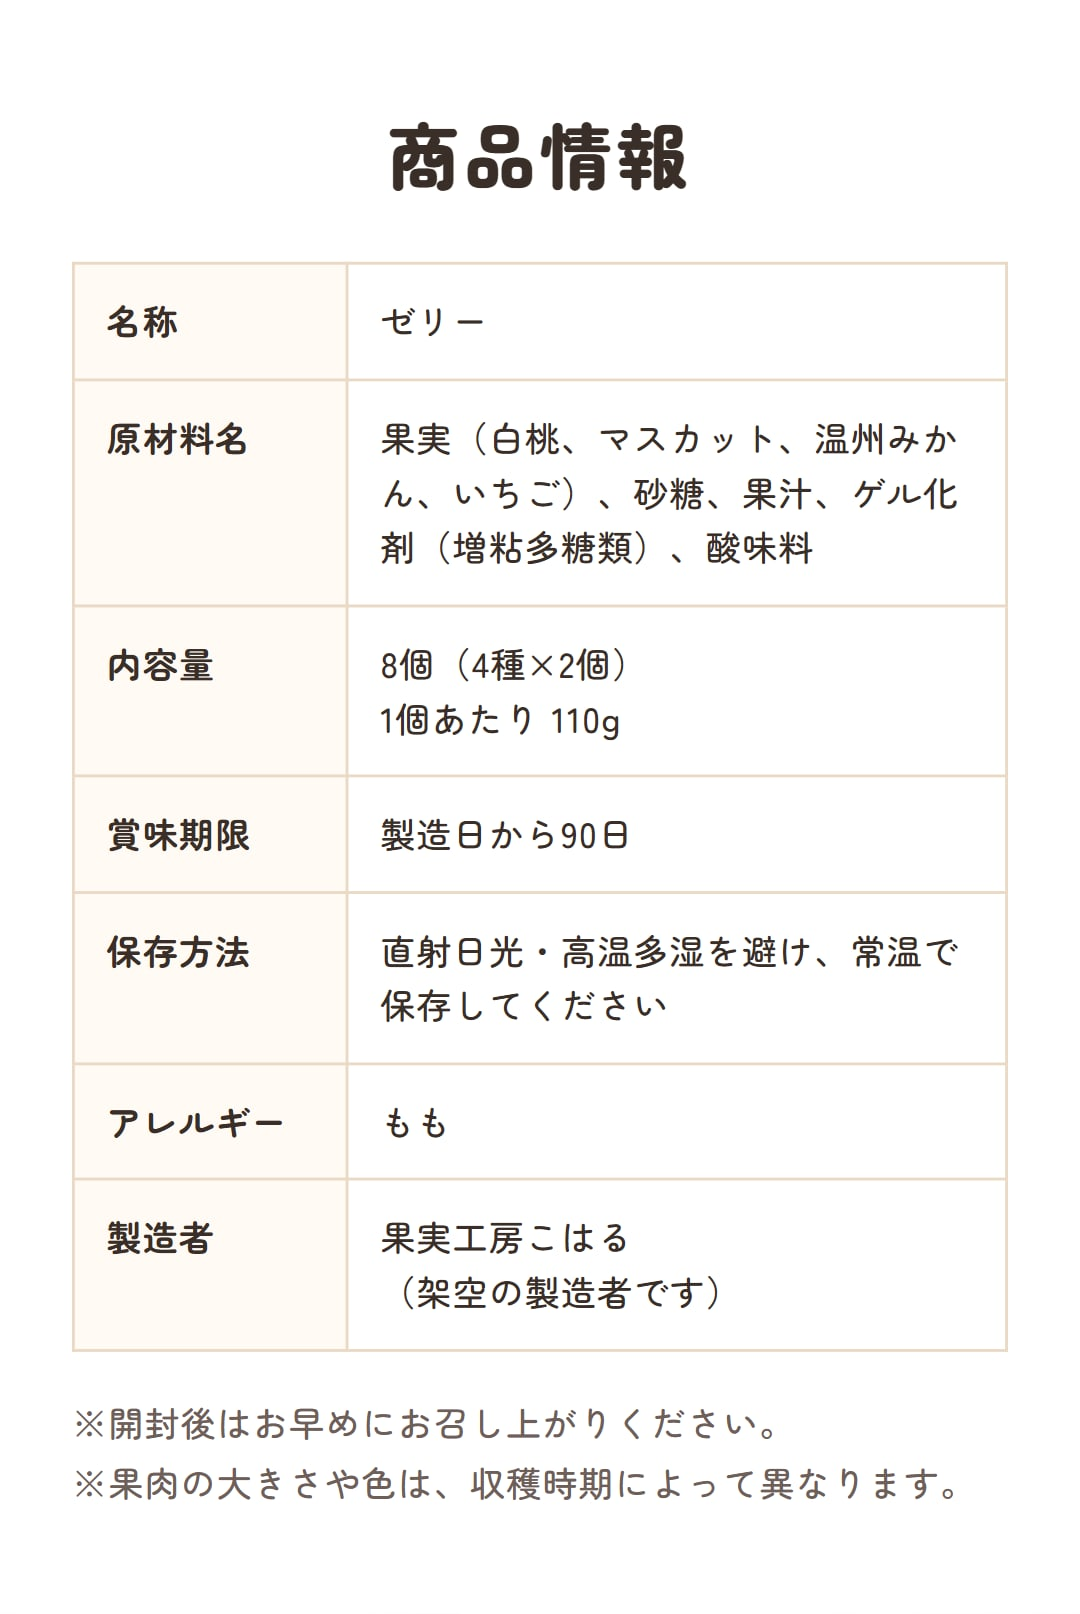
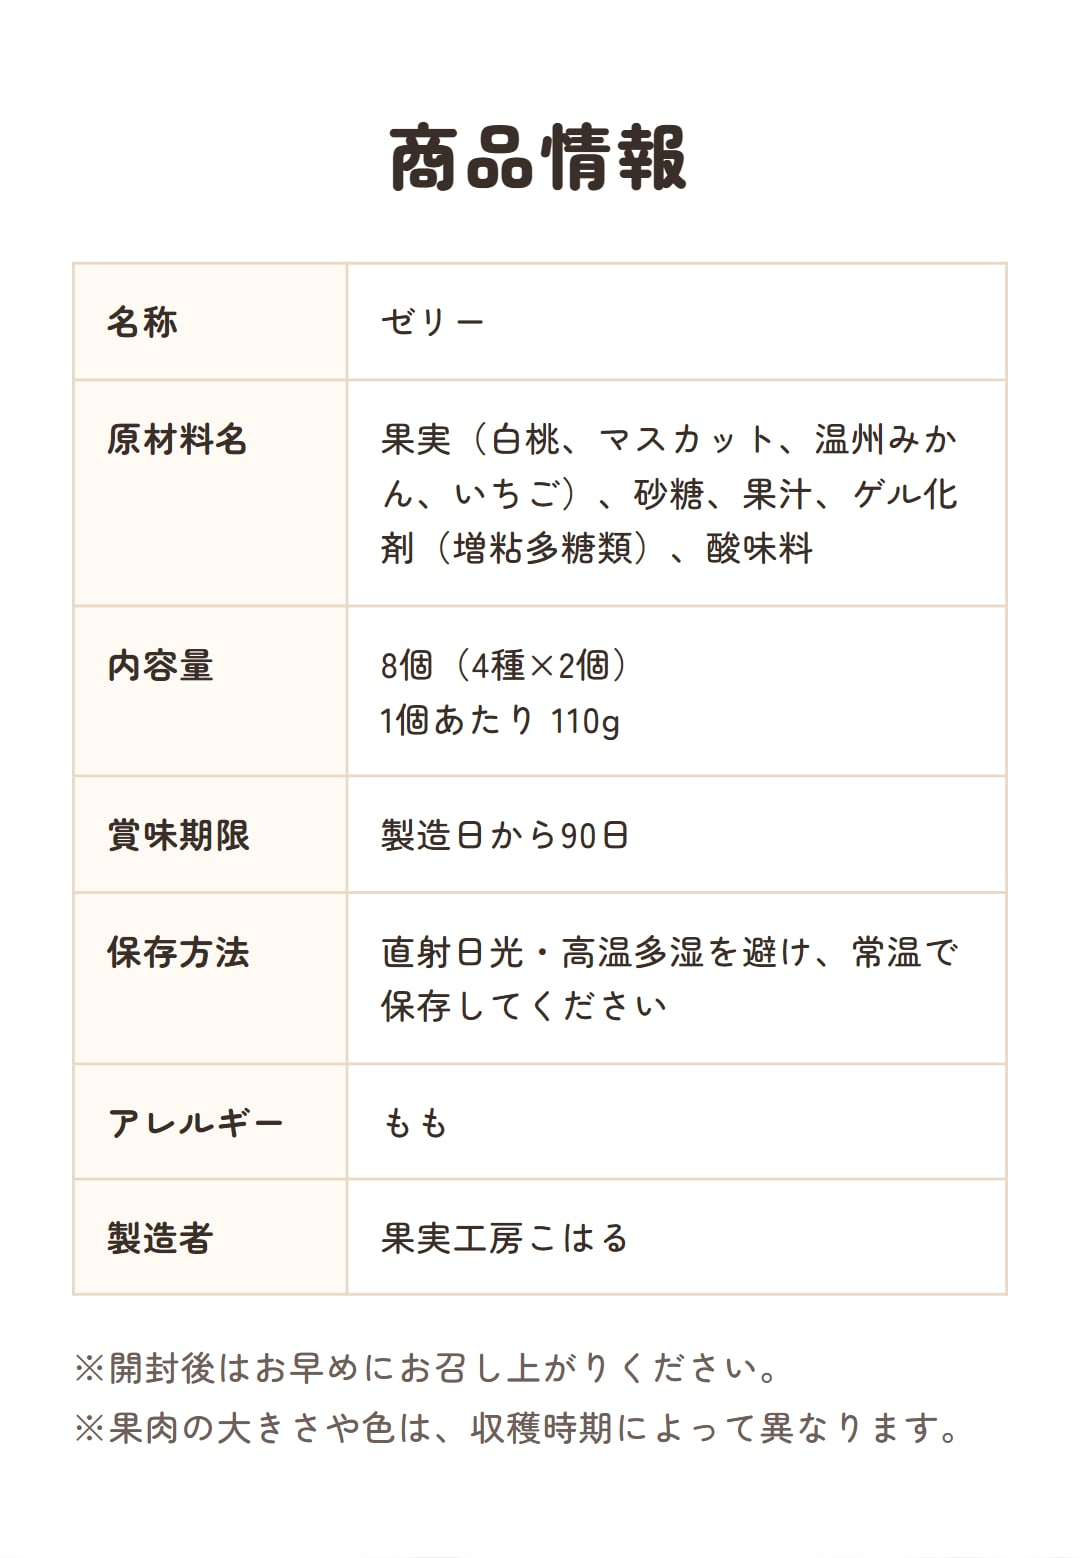
こはる：断り書きをフッターの1か所（自主制作）にまとめ、画像・テキストの「架空」の注記を外した

diff --git a/koharu/index.html b/koharu/index.html
@@ -3,12 +3,12 @@
 <head>
   <meta charset="UTF-8">
   <meta name="viewport" content="width=device-width, initial-scale=1">
-  <title>楽天市場 商品ページ制作サンプル｜国産フルーツジュレ（架空の商品）</title>
-  <meta name="description" content="楽天市場向けの商品ページ制作サンプル。スマホ用の縦長LP画像11枚、商品画像3枚、楽天にそのまま貼れるHTMLまで制作しました（架空の商品）。">
+  <title>楽天市場の商品ページ｜国産フルーツジュレ</title>
+  <meta name="description" content="楽天市場の商品ページ。スマホ用の縦長LP画像11枚、商品画像3枚、楽天にそのまま貼れるHTMLまで制作しました。">
   <meta name="robots" content="noindex">
   <meta property="og:type" content="website">
-  <meta property="og:title" content="楽天市場 商品ページ制作サンプル｜国産フルーツジュレ">
-  <meta property="og:description" content="スマホ用LP画像11枚・商品画像3枚・楽天用HTML（架空の商品のサンプル）">
+  <meta property="og:title" content="楽天市場の商品ページ｜国産フルーツジュレ">
+  <meta property="og:description" content="スマホ用LP画像11枚・商品画像3枚・楽天用HTML">
   <meta property="og:url" content="https://shimaponworks.github.io/koharu/">
   <meta property="og:image" content="https://shimaponworks.github.io/koharu/output/thumb-01.jpg">
   <meta name="twitter:card" content="summary_large_image">
@@ -18,15 +18,14 @@
 <body>
   <header class="hero">
     <div class="container">
-      <p class="hero__label">楽天市場 商品ページ 制作サンプル</p>
+      <p class="hero__label">楽天市場の商品ページ</p>
       <h1 class="hero__title">果実ごろっと<br>国産フルーツジュレ</h1>
-      <p class="hero__lead">お歳暮・クリスマス向けの食品ギフトを想定した、楽天市場の商品ページです。<br>スマホ用の縦長LP画像から、商品画像、楽天にそのまま貼れるHTMLまで制作しました。</p>
+      <p class="hero__lead">お歳暮・クリスマス向けの食品ギフトの、楽天市場の商品ページです。<br>スマホ用の縦長LP画像から、商品画像、楽天にそのまま貼れるHTMLまで制作しました。</p>
       <ul class="hero__chips">
         <li>スマホ用LP画像 <strong>11枚</strong></li>
         <li>商品画像 <strong>3枚</strong></li>
         <li>楽天用HTML・登録テキスト</li>
       </ul>
-      <p class="hero__note">※ポートフォリオ用に制作した架空の商品です。</p>
     </div>
   </header>
 
@@ -100,7 +99,7 @@
             <img src="output/sp-07.jpg" width="1080" height="1506" alt="おすすめの食べ方。冷蔵庫で2時間ほど冷やしてそのまま。冷凍庫で凍らせればシャーベットに" loading="lazy">
             <img src="output/sp-08.jpg" width="1080" height="2341" alt="お歳暮・クリスマス・手土産・内祝いに。ギフト対応はすべて無料。のし（お歳暮・御礼・内祝いなど）、包装、メッセージカード、手提げ袋。ご注文時に選べます" loading="lazy">
             <img src="output/sp-09.jpg" width="1080" height="1765" alt="よくある質問。賞味期限は製造日から90日。お届け日の指定ができます。のしの名入れができます。領収書を発行できます" loading="lazy">
-            <img src="output/sp-10.jpg" width="1080" height="1614" alt="商品情報。名称：ゼリー。原材料名：果実（白桃、マスカット、温州みかん、いちご）、砂糖、果汁、ゲル化剤（増粘多糖類）、酸味料。内容量：8個（4種×2個）、1個あたり110g。賞味期限：製造日から90日。保存方法：直射日光・高温多湿を避け、常温で保存。アレルギー：もも。製造者：果実工房こはる（架空）" loading="lazy">
+            <img src="output/sp-10.jpg" width="1080" height="1558" alt="商品情報。名称：ゼリー。原材料名：果実（白桃、マスカット、温州みかん、いちご）、砂糖、果汁、ゲル化剤（増粘多糖類）、酸味料。内容量：8個（4種×2個）、1個あたり110g。賞味期限：製造日から90日。保存方法：直射日光・高温多湿を避け、常温で保存。アレルギー：もも。製造者：果実工房こはる" loading="lazy">
             <img src="output/sp-11.jpg" width="1080" height="1509" alt="大切な方へ、果実のひとさじを。透明のふたをして箱に並べた8個のジュレ。果実工房こはる" loading="lazy">
           </div>
         </div>
@@ -110,7 +109,7 @@
 
   <footer class="footer">
     <div class="container">
-      <p>※このページはポートフォリオ用に制作した架空の商品の見本です。商品名・ショップ名・製造者・価格はすべて架空のものです。<br>実際の案件では、実物の商品写真を使用します。</p>
+      <p>このページは自主制作の作品です。実在の商品・ショップとは関係ありません。商品名・ショップ名・製造者・価格は仮の内容です。</p>
     </div>
   </footer>
 </body>

diff --git a/koharu/output/rakuten-pc.html b/koharu/output/rakuten-pc.html
@@ -8,6 +8,6 @@
 <img src="https://image.rakuten.co.jp/SHOP_ID/cabinet/sp-07.jpg" width="750" alt="おすすめの食べ方。冷蔵庫で2時間ほど冷やしてそのまま。冷凍庫で凍らせればシャーベットに"><br>
 <img src="https://image.rakuten.co.jp/SHOP_ID/cabinet/sp-08.jpg" width="750" alt="お歳暮・クリスマス・手土産・内祝いに。ギフト対応はすべて無料。のし（お歳暮・御礼・内祝いなど）、包装、メッセージカード、手提げ袋。ご注文時に選べます"><br>
 <img src="https://image.rakuten.co.jp/SHOP_ID/cabinet/sp-09.jpg" width="750" alt="よくある質問。賞味期限は製造日から90日。お届け日の指定ができます。のしの名入れができます。領収書を発行できます"><br>
-<img src="https://image.rakuten.co.jp/SHOP_ID/cabinet/sp-10.jpg" width="750" alt="商品情報。名称：ゼリー。原材料名：果実（白桃、マスカット、温州みかん、いちご）、砂糖、果汁、ゲル化剤（増粘多糖類）、酸味料。内容量：8個（4種×2個）、1個あたり110g。賞味期限：製造日から90日。保存方法：直射日光・高温多湿を避け、常温で保存。アレルギー：もも。製造者：果実工房こはる（架空）"><br>
+<img src="https://image.rakuten.co.jp/SHOP_ID/cabinet/sp-10.jpg" width="750" alt="商品情報。名称：ゼリー。原材料名：果実（白桃、マスカット、温州みかん、いちご）、砂糖、果汁、ゲル化剤（増粘多糖類）、酸味料。内容量：8個（4種×2個）、1個あたり110g。賞味期限：製造日から90日。保存方法：直射日光・高温多湿を避け、常温で保存。アレルギー：もも。製造者：果実工房こはる"><br>
 <img src="https://image.rakuten.co.jp/SHOP_ID/cabinet/sp-11.jpg" width="750" alt="大切な方へ、果実のひとさじを。透明のふたをして箱に並べた8個のジュレ。果実工房こはる"><br>
 </center>

diff --git a/koharu/output/rakuten-sp.html b/koharu/output/rakuten-sp.html
@@ -7,5 +7,5 @@
 <img src="https://image.rakuten.co.jp/SHOP_ID/cabinet/sp-07.jpg" width="100%" alt="おすすめの食べ方。冷蔵庫で2時間ほど冷やしてそのまま。冷凍庫で凍らせればシャーベットに">
 <img src="https://image.rakuten.co.jp/SHOP_ID/cabinet/sp-08.jpg" width="100%" alt="お歳暮・クリスマス・手土産・内祝いに。ギフト対応はすべて無料。のし（お歳暮・御礼・内祝いなど）、包装、メッセージカード、手提げ袋。ご注文時に選べます">
 <img src="https://image.rakuten.co.jp/SHOP_ID/cabinet/sp-09.jpg" width="100%" alt="よくある質問。賞味期限は製造日から90日。お届け日の指定ができます。のしの名入れができます。領収書を発行できます">
-<img src="https://image.rakuten.co.jp/SHOP_ID/cabinet/sp-10.jpg" width="100%" alt="商品情報。名称：ゼリー。原材料名：果実（白桃、マスカット、温州みかん、いちご）、砂糖、果汁、ゲル化剤（増粘多糖類）、酸味料。内容量：8個（4種×2個）、1個あたり110g。賞味期限：製造日から90日。保存方法：直射日光・高温多湿を避け、常温で保存。アレルギー：もも。製造者：果実工房こはる（架空）">
+<img src="https://image.rakuten.co.jp/SHOP_ID/cabinet/sp-10.jpg" width="100%" alt="商品情報。名称：ゼリー。原材料名：果実（白桃、マスカット、温州みかん、いちご）、砂糖、果汁、ゲル化剤（増粘多糖類）、酸味料。内容量：8個（4種×2個）、1個あたり110g。賞味期限：製造日から90日。保存方法：直射日光・高温多湿を避け、常温で保存。アレルギー：もも。製造者：果実工房こはる">
 <img src="https://image.rakuten.co.jp/SHOP_ID/cabinet/sp-11.jpg" width="100%" alt="大切な方へ、果実のひとさじを。透明のふたをして箱に並べた8個のジュレ。果実工房こはる">
